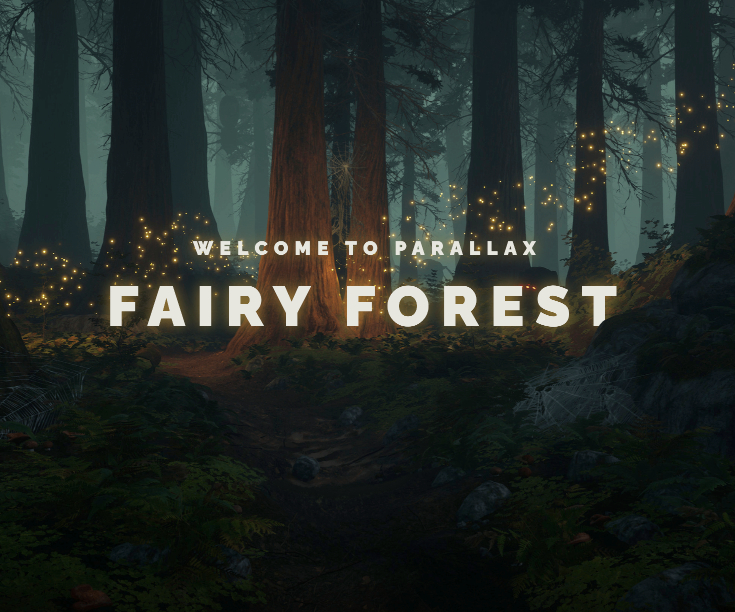
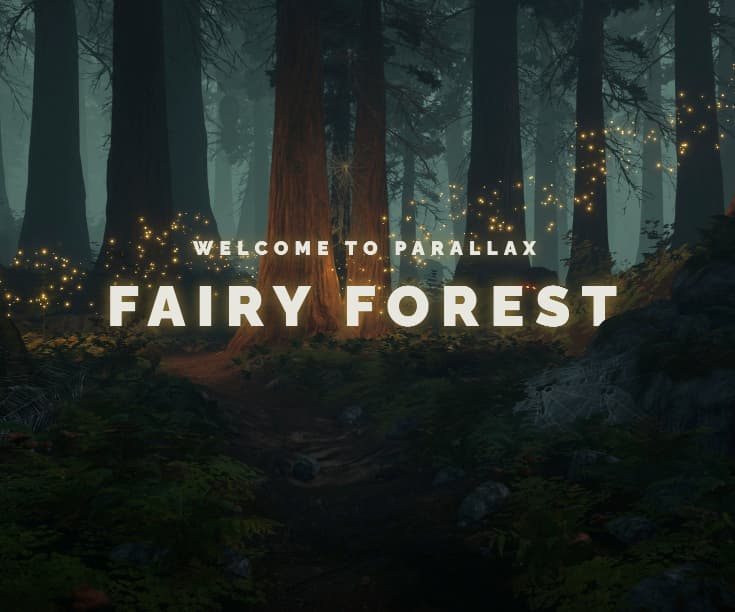
add compressed img

Changed region(s): [[0.7483, 0.4657, 0.7782, 0.4967], [0.3891, 0.4657, 0.419, 0.4967]]

diff --git a/css/main.min.css b/css/main.min.css
@@ -1,1 +1,1 @@
-html{-webkit-box-sizing:border-box;box-sizing:border-box;scroll-behavior:smooth}*,*::before,*::after{-webkit-box-sizing:inherit;box-sizing:inherit}h1,h2,h3,p{margin-top:0;margin-bottom:0}img{display:block;max-width:100%;height:auto}ul{padding:0;margin:0;list-style:none}a{text-decoration:none;color:inherit}body{font-family:"Roboto",sans-serif;font-weight:300;font-size:18px;line-height:1.25;color:#000;background-color:#fff}.container{max-width:475px;margin:0 auto;padding:0 10px}@media screen and (min-width: 768px){.container{max-width:945px;padding:0 30px}}.container--reletive{position:relative}@media screen and (min-width: 768px){.container--about{width:475px}}@media screen and (min-width: 768px){.container--contacts{width:400px}}.section{padding-top:80px;padding-bottom:80px;text-align:center}@media screen and (min-width: 768px){.section{padding-top:100px;padding-bottom:100px}}.section:nth-child(2n){background:#f6f6f6}.section__title{font-weight:700;font-size:34px;line-height:1.25;margin-bottom:50px}@media screen and (min-width: 768px){.section__title:nth-child(2n){margin-bottom:30px}}.current{color:#090909}#scrollToTopBtn{display:none;position:fixed;bottom:40px;right:5px;z-index:10;background-color:rgba(0,0,0,0);border:none;cursor:pointer}@media screen and (min-width: 768px){#scrollToTopBtn{right:30px}}@media screen and (min-width: 768px){.header{-webkit-box-shadow:rgba(100,100,111,.2) 0px 7px 29px 0px;box-shadow:rgba(100,100,111,.2) 0px 7px 29px 0px}}.hero{padding:10px 0}@media screen and (min-width: 768px){.hero{padding:60px 0}}.hero__box{display:inline-block;margin-bottom:40px}@media screen and (min-width: 768px){.hero__box{display:-webkit-box;display:-ms-flexbox;display:flex;-webkit-box-pack:justify;-ms-flex-pack:justify;justify-content:space-between;-webkit-box-align:end;-ms-flex-align:end;align-items:flex-end}}.hero__title{position:relative;font-weight:700;font-size:47px;line-height:58px;margin-bottom:25px;z-index:9}@media screen and (min-width: 768px){.hero__title{margin-bottom:0}}.hero__text{color:#090909}.lang{position:relative;display:-webkit-box;display:-ms-flexbox;display:flex;margin-top:30px;font-weight:700;font-size:16px;line-height:1.25;color:#828282;z-index:9}@media screen and (min-width: 768px){.lang{display:-webkit-box;display:-ms-flexbox;display:flex;-webkit-transform:rotate(-90deg) translate(25%, 150%);transform:rotate(-90deg) translate(25%, 150%)}}.lang__item:not(:last-child){border-right:2px solid #090909}.lang__link{padding:0 5px}@media screen and (max-width: 767px){.menu{position:absolute;top:0;right:0;width:100%;min-height:100%;padding:90px 29px;text-align:right;background-color:rgba(255,255,255,.8);visibility:hidden;opacity:0;-webkit-transition:opacity 500ms cubic-bezier(0.4, 0, 0.2, 1),visibility 500ms;transition:opacity 500ms cubic-bezier(0.4, 0, 0.2, 1),visibility 500ms;z-index:9}}.menu.is-open{visibility:visible;opacity:1}@media screen and (max-width: 767px){.menu__box{display:-webkit-inline-box;display:-ms-inline-flexbox;display:inline-flex;-webkit-box-orient:vertical;-webkit-box-direction:normal;-ms-flex-direction:column;flex-direction:column}}@media screen and (min-width: 768px){.menu__box{display:-webkit-box;display:-ms-flexbox;display:flex;-webkit-box-pack:justify;-ms-flex-pack:justify;justify-content:space-between;-webkit-box-align:center;-ms-flex-align:center;align-items:center}}.menu__item{display:inline-block;font-weight:700;font-size:28px;line-height:1.2;color:#828282;-webkit-transform:scale(1);transform:scale(1);-webkit-transition:color 300ms cubic-bezier(0.4, 0, 0.2, 1),-webkit-transform 300ms cubic-bezier(0.4, 0, 0.2, 1);transition:color 300ms cubic-bezier(0.4, 0, 0.2, 1),-webkit-transform 300ms cubic-bezier(0.4, 0, 0.2, 1);transition:color 300ms cubic-bezier(0.4, 0, 0.2, 1),transform 300ms cubic-bezier(0.4, 0, 0.2, 1);transition:color 300ms cubic-bezier(0.4, 0, 0.2, 1),transform 300ms cubic-bezier(0.4, 0, 0.2, 1),-webkit-transform 300ms cubic-bezier(0.4, 0, 0.2, 1)}.menu__item:hover,.menu__item:focus{color:#2c2c2c;-webkit-transform:scale(0.9);transform:scale(0.9)}@media screen and (min-width: 768px){.menu__item{padding:30px 0;font-size:18px;line-height:1.2}}.menu__item:first-child{color:#090909}@media screen and (max-width: 767px){.menu__item:not(:last-child){margin-bottom:35px}}.menu__button{display:-webkit-box;display:-ms-flexbox;display:flex;position:absolute;top:15px;right:20px;-webkit-box-pack:center;-ms-flex-pack:center;justify-content:center;-webkit-box-align:center;-ms-flex-align:center;align-items:center;margin:0;padding:0;width:32px;height:32px;border:none;background-color:rgba(0,0,0,0);cursor:pointer;z-index:10}@media screen and (min-width: 768px){.menu__button{display:none}}.menu__button:hover{fill:var(--hover-text-color)}.menu__button .icon__close{display:none}.menu__button.is-open .icon__close{display:block}.menu__button.is-open .icon__menu{display:none}.about__text:not(:last-child){margin-bottom:50px}.skills__text{margin-bottom:70px}@media screen and (min-width: 768px){.programs{display:-webkit-box;display:-ms-flexbox;display:flex;-webkit-box-pack:justify;-ms-flex-pack:justify;justify-content:space-between}}.programs__item:not(:last-child){margin-bottom:80px}@media screen and (min-width: 768px){.programs__item:not(:last-child){margin-bottom:0px}}.programs__icon{margin-bottom:25px}.programs__name{font-weight:700;font-size:14px;line-height:1.2;color:#828282;margin-bottom:40px}.progams__star-grey{fill:#e5e5e5}.progams__star:not(:last-child){margin-right:10px}.portfolio__item{position:relative;overflow:hidden;color:#fff}.portfolio__picture{display:block}.project__picture img{margin-left:auto;margin-right:auto}.project__overlay{position:absolute;left:0;top:0;width:100%;height:100%;background-color:rgba(0,0,0,.6);-webkit-transform:translateY(-101%);transform:translateY(-101%);-webkit-transition:-webkit-transform 300ms cubic-bezier(0.4, 0, 0.2, 1);transition:-webkit-transform 300ms cubic-bezier(0.4, 0, 0.2, 1);transition:transform 300ms cubic-bezier(0.4, 0, 0.2, 1);transition:transform 300ms cubic-bezier(0.4, 0, 0.2, 1), -webkit-transform 300ms cubic-bezier(0.4, 0, 0.2, 1)}.portfolio__item.project:hover .project__overlay,.portfolio__item.project:focus .project__overlay{-webkit-transform:translateY(0);transform:translateY(0)}.project__info{position:absolute;left:50%;top:50%;width:100%;-webkit-transform:translate(-50%, -50%);transform:translate(-50%, -50%)}.project__title{font-size:32px;margin-bottom:15px}.project__text{font-size:18px;margin-bottom:40px}.project__view,.project__link{display:-webkit-box;display:-ms-flexbox;display:flex;-webkit-box-pack:center;-ms-flex-pack:center;justify-content:center;-webkit-box-align:center;-ms-flex-align:center;align-items:center;margin-left:auto;margin-right:auto;width:250px;border-radius:50px;outline:none}.project__view{height:42px;background-color:#fff;font-weight:700;color:#000;-webkit-box-shadow:none;box-shadow:none;margin-bottom:15px;cursor:pointer;-webkit-transition:-webkit-box-shadow 300ms cubic-bezier(0.4, 0, 0.2, 1);transition:-webkit-box-shadow 300ms cubic-bezier(0.4, 0, 0.2, 1);transition:box-shadow 300ms cubic-bezier(0.4, 0, 0.2, 1);transition:box-shadow 300ms cubic-bezier(0.4, 0, 0.2, 1), -webkit-box-shadow 300ms cubic-bezier(0.4, 0, 0.2, 1)}.project__view:hover,.project__view:focus{-webkit-box-shadow:inset 0px 0px 4px 2px rgba(0,0,0,.25);box-shadow:inset 0px 0px 4px 2px rgba(0,0,0,.25)}.project__link{margin-bottom:5px;-webkit-transform:scale(1);transform:scale(1);-webkit-transition:color 300ms cubic-bezier(0.4, 0, 0.2, 1),-webkit-transform 300ms cubic-bezier(0.4, 0, 0.2, 1);transition:color 300ms cubic-bezier(0.4, 0, 0.2, 1),-webkit-transform 300ms cubic-bezier(0.4, 0, 0.2, 1);transition:color 300ms cubic-bezier(0.4, 0, 0.2, 1),transform 300ms cubic-bezier(0.4, 0, 0.2, 1);transition:color 300ms cubic-bezier(0.4, 0, 0.2, 1),transform 300ms cubic-bezier(0.4, 0, 0.2, 1),-webkit-transform 300ms cubic-bezier(0.4, 0, 0.2, 1)}.project__link:hover,.project__link:focus{-webkit-transform:scale(1.2);transform:scale(1.2)}@media screen and (min-width: 768px){.project__title{font-size:40px;margin-bottom:15px}.project__text{font-size:24px;margin-bottom:50px}.project__view{margin-bottom:15px}.project__link{margin-bottom:10px}}.swiper{width:100%;height:100%}.swiper-wrapper{padding-bottom:50px}.slider-arrow-prev,.slider-arrow-next{display:none;position:absolute;top:45%;width:31px;height:31px;border:.5px solid #000;border-radius:50%;cursor:pointer;z-index:5}@media screen and (min-width: 768px){.slider-arrow-prev,.slider-arrow-next{display:block}}.slider-arrow-prev{-webkit-transform:rotate(180deg);transform:rotate(180deg);left:1rem}.slider-arrow-next{right:1rem}.container--contacts{position:relative;padding-bottom:30px}.contacts__text{margin-bottom:40px;color:#090909}.button{min-width:100%;height:42px;background-color:#090909;font-weight:700;color:#fff;border-radius:50px;margin-bottom:50px;cursor:pointer;-webkit-transition:-webkit-box-shadow 300ms cubic-bezier(0.4, 0, 0.2, 1);transition:-webkit-box-shadow 300ms cubic-bezier(0.4, 0, 0.2, 1);transition:box-shadow 300ms cubic-bezier(0.4, 0, 0.2, 1);transition:box-shadow 300ms cubic-bezier(0.4, 0, 0.2, 1), -webkit-box-shadow 300ms cubic-bezier(0.4, 0, 0.2, 1)}.button:hover,.button:focus{-webkit-box-shadow:0px 5px 2px rgba(0,0,0,.1),0px 2px 4px rgba(0,0,0,.08),0px 4px 4px rgba(0,0,0,.12);box-shadow:0px 5px 2px rgba(0,0,0,.1),0px 2px 4px rgba(0,0,0,.08),0px 4px 4px rgba(0,0,0,.12)}@media screen and (min-width: 768px){.button{min-width:250px;padding:10px 30px}}.social{display:-webkit-box;display:-ms-flexbox;display:flex;-ms-flex-pack:distribute;justify-content:space-around;margin-bottom:50px}.social__link{display:-webkit-box;display:-ms-flexbox;display:flex;-webkit-box-pack:center;-ms-flex-pack:center;justify-content:center;-webkit-box-align:center;-ms-flex-align:center;align-items:center;fill:#090909;-webkit-transform:scale(1) rotate(0deg);transform:scale(1) rotate(0deg);-webkit-transition:-webkit-transform 300ms cubic-bezier(0.4, 0, 0.2, 1);transition:-webkit-transform 300ms cubic-bezier(0.4, 0, 0.2, 1);transition:transform 300ms cubic-bezier(0.4, 0, 0.2, 1);transition:transform 300ms cubic-bezier(0.4, 0, 0.2, 1), -webkit-transform 300ms cubic-bezier(0.4, 0, 0.2, 1)}.social__link:hover,.social__link:focus{-webkit-transform:scale(1.1) rotate(360deg);transform:scale(1.1) rotate(360deg)}.signature{color:#828282}.copy{position:absolute;font-size:16px;left:50%;bottom:0;-webkit-transform:translate3d(-50%, 0, 0);transform:translate3d(-50%, 0, 0)}/*# sourceMappingURL=main.min.css.map */
+html{-webkit-box-sizing:border-box;box-sizing:border-box;scroll-behavior:smooth}*,*::before,*::after{-webkit-box-sizing:inherit;box-sizing:inherit}h1,h2,h3,p{margin-top:0;margin-bottom:0}img{display:block;max-width:100%;height:auto}ul{padding:0;margin:0;list-style:none}a{text-decoration:none;color:inherit}body{font-family:"Roboto",sans-serif;font-weight:300;font-size:18px;line-height:1.25;color:#000;background-color:#fff}.container{max-width:475px;margin:0 auto;padding:0 10px}@media screen and (min-width: 768px){.container{max-width:945px;padding:0 30px}}.container--reletive{position:relative}@media screen and (min-width: 768px){.container--contacts{width:400px}}.section{padding-top:80px;padding-bottom:80px;text-align:center}@media screen and (min-width: 768px){.section{padding-top:100px;padding-bottom:100px}.section.section--about{padding-top:50px;padding-bottom:50px}}.section:nth-child(2n){background:#f6f6f6}.section__title{font-weight:700;font-size:34px;line-height:1.25;margin-bottom:50px}@media screen and (min-width: 768px){.section__title:nth-child(2n){margin-bottom:30px}}.current{color:#090909}#scrollToTopBtn{display:none;position:fixed;bottom:40px;right:5px;z-index:10;background-color:rgba(0,0,0,0);border:none;cursor:pointer}@media screen and (min-width: 768px){#scrollToTopBtn{right:30px}}@media screen and (min-width: 768px){.header{-webkit-box-shadow:rgba(100,100,111,.2) 0px 7px 29px 0px;box-shadow:rgba(100,100,111,.2) 0px 7px 29px 0px}}.hero{padding:10px 0}@media screen and (min-width: 768px){.hero{padding:60px 0}}.hero__box{display:inline-block;margin-bottom:40px}@media screen and (min-width: 768px){.hero__box{display:-webkit-box;display:-ms-flexbox;display:flex;-webkit-box-pack:justify;-ms-flex-pack:justify;justify-content:space-between;-webkit-box-align:end;-ms-flex-align:end;align-items:flex-end}}.hero__title{position:relative;font-weight:700;font-size:47px;line-height:58px;margin-bottom:25px;z-index:9}@media screen and (min-width: 768px){.hero__title{margin-bottom:0}}.hero__text{color:#090909}.lang{position:relative;display:-webkit-box;display:-ms-flexbox;display:flex;margin-top:30px;font-weight:700;font-size:16px;line-height:1.25;color:#828282;z-index:9}@media screen and (min-width: 768px){.lang{display:-webkit-box;display:-ms-flexbox;display:flex;-webkit-transform:rotate(-90deg) translate(25%, 150%);transform:rotate(-90deg) translate(25%, 150%)}}.lang__item:not(:last-child){border-right:2px solid #090909}.lang__link{padding:0 5px}@media screen and (max-width: 767px){.menu{position:absolute;top:0;right:0;width:100%;min-height:100%;padding:90px 29px;text-align:right;background-color:rgba(255,255,255,.8);visibility:hidden;opacity:0;-webkit-transition:opacity 500ms cubic-bezier(0.4, 0, 0.2, 1),visibility 500ms;transition:opacity 500ms cubic-bezier(0.4, 0, 0.2, 1),visibility 500ms;z-index:9}}.menu.is-open{visibility:visible;opacity:1}@media screen and (max-width: 767px){.menu__box{display:-webkit-inline-box;display:-ms-inline-flexbox;display:inline-flex;-webkit-box-orient:vertical;-webkit-box-direction:normal;-ms-flex-direction:column;flex-direction:column}}@media screen and (min-width: 768px){.menu__box{display:-webkit-box;display:-ms-flexbox;display:flex;-webkit-box-pack:justify;-ms-flex-pack:justify;justify-content:space-between;-webkit-box-align:center;-ms-flex-align:center;align-items:center}}.menu__item{display:inline-block;font-weight:700;font-size:28px;line-height:1.2;color:#828282;-webkit-transform:scale(1);transform:scale(1);-webkit-transition:color 300ms cubic-bezier(0.4, 0, 0.2, 1),-webkit-transform 300ms cubic-bezier(0.4, 0, 0.2, 1);transition:color 300ms cubic-bezier(0.4, 0, 0.2, 1),-webkit-transform 300ms cubic-bezier(0.4, 0, 0.2, 1);transition:color 300ms cubic-bezier(0.4, 0, 0.2, 1),transform 300ms cubic-bezier(0.4, 0, 0.2, 1);transition:color 300ms cubic-bezier(0.4, 0, 0.2, 1),transform 300ms cubic-bezier(0.4, 0, 0.2, 1),-webkit-transform 300ms cubic-bezier(0.4, 0, 0.2, 1)}.menu__item:hover,.menu__item:focus{color:#2c2c2c;-webkit-transform:scale(0.9);transform:scale(0.9)}@media screen and (min-width: 768px){.menu__item{padding:30px 0;font-size:18px;line-height:1.2}}.menu__item:first-child{color:#090909}@media screen and (max-width: 767px){.menu__item:not(:last-child){margin-bottom:35px}}.menu__button{display:-webkit-box;display:-ms-flexbox;display:flex;position:absolute;top:15px;right:20px;-webkit-box-pack:center;-ms-flex-pack:center;justify-content:center;-webkit-box-align:center;-ms-flex-align:center;align-items:center;margin:0;padding:0;width:32px;height:32px;border:none;background-color:rgba(0,0,0,0);cursor:pointer;z-index:10}@media screen and (min-width: 768px){.menu__button{display:none}}.menu__button:hover{fill:var(--hover-text-color)}.menu__button .icon__close{display:none}.menu__button.is-open .icon__close{display:block}.menu__button.is-open .icon__menu{display:none}.about__content{display:-webkit-box;display:-ms-flexbox;display:flex;-webkit-box-orient:vertical;-webkit-box-direction:normal;-ms-flex-direction:column;flex-direction:column;-webkit-box-pack:center;-ms-flex-pack:center;justify-content:center;-webkit-box-align:center;-ms-flex-align:center;align-items:center;gap:50px}@media screen and (min-width: 768px){.about__content{-webkit-box-orient:horizontal;-webkit-box-direction:normal;-ms-flex-direction:row;flex-direction:row}}.about__text{display:-webkit-box;display:-ms-flexbox;display:flex;-webkit-box-orient:vertical;-webkit-box-direction:normal;-ms-flex-direction:column;flex-direction:column;-webkit-box-pack:center;-ms-flex-pack:center;justify-content:center;-webkit-box-align:center;-ms-flex-align:center;align-items:center;gap:50px;max-width:415px}.skills__text{margin-bottom:70px}@media screen and (min-width: 768px){.programs{display:-webkit-box;display:-ms-flexbox;display:flex;-webkit-box-pack:justify;-ms-flex-pack:justify;justify-content:space-between}}.programs__item:not(:last-child){margin-bottom:80px}@media screen and (min-width: 768px){.programs__item:not(:last-child){margin-bottom:0px}}.programs__icon{margin-bottom:25px}.programs__name{font-weight:700;font-size:14px;line-height:1.2;color:#828282;margin-bottom:40px}.progams__star-grey{fill:#e5e5e5}.progams__star:not(:last-child){margin-right:10px}.portfolio__item{position:relative;overflow:hidden;color:#fff}.portfolio__picture{display:block}.project__picture img{margin-left:auto;margin-right:auto}.project__overlay{position:absolute;left:0;top:0;width:100%;height:100%;background-color:rgba(0,0,0,.6);-webkit-transform:translateY(-101%);transform:translateY(-101%);-webkit-transition:-webkit-transform 300ms cubic-bezier(0.4, 0, 0.2, 1);transition:-webkit-transform 300ms cubic-bezier(0.4, 0, 0.2, 1);transition:transform 300ms cubic-bezier(0.4, 0, 0.2, 1);transition:transform 300ms cubic-bezier(0.4, 0, 0.2, 1), -webkit-transform 300ms cubic-bezier(0.4, 0, 0.2, 1)}.portfolio__item.project:hover .project__overlay,.portfolio__item.project:focus .project__overlay{-webkit-transform:translateY(0);transform:translateY(0)}.project__info{position:absolute;left:50%;top:50%;width:100%;-webkit-transform:translate(-50%, -50%);transform:translate(-50%, -50%)}.project__title{font-size:32px;margin-bottom:15px}.project__text{font-size:18px;margin-bottom:40px}.project__view,.project__link{display:-webkit-box;display:-ms-flexbox;display:flex;-webkit-box-pack:center;-ms-flex-pack:center;justify-content:center;-webkit-box-align:center;-ms-flex-align:center;align-items:center;margin-left:auto;margin-right:auto;width:250px;border-radius:50px;outline:none}.project__view{height:42px;background-color:#fff;font-weight:700;color:#000;-webkit-box-shadow:none;box-shadow:none;margin-bottom:15px;cursor:pointer;-webkit-transition:-webkit-box-shadow 300ms cubic-bezier(0.4, 0, 0.2, 1);transition:-webkit-box-shadow 300ms cubic-bezier(0.4, 0, 0.2, 1);transition:box-shadow 300ms cubic-bezier(0.4, 0, 0.2, 1);transition:box-shadow 300ms cubic-bezier(0.4, 0, 0.2, 1), -webkit-box-shadow 300ms cubic-bezier(0.4, 0, 0.2, 1)}.project__view:hover,.project__view:focus{-webkit-box-shadow:inset 0px 0px 4px 2px rgba(0,0,0,.25);box-shadow:inset 0px 0px 4px 2px rgba(0,0,0,.25)}.project__link{margin-bottom:5px;-webkit-transform:scale(1);transform:scale(1);-webkit-transition:color 300ms cubic-bezier(0.4, 0, 0.2, 1),-webkit-transform 300ms cubic-bezier(0.4, 0, 0.2, 1);transition:color 300ms cubic-bezier(0.4, 0, 0.2, 1),-webkit-transform 300ms cubic-bezier(0.4, 0, 0.2, 1);transition:color 300ms cubic-bezier(0.4, 0, 0.2, 1),transform 300ms cubic-bezier(0.4, 0, 0.2, 1);transition:color 300ms cubic-bezier(0.4, 0, 0.2, 1),transform 300ms cubic-bezier(0.4, 0, 0.2, 1),-webkit-transform 300ms cubic-bezier(0.4, 0, 0.2, 1)}.project__link:hover,.project__link:focus{-webkit-transform:scale(1.2);transform:scale(1.2)}@media screen and (min-width: 768px){.project__title{font-size:40px;margin-bottom:15px}.project__text{font-size:24px;margin-bottom:50px}.project__view{margin-bottom:15px}.project__link{margin-bottom:10px}}.swiper{width:100%;height:100%}.swiper-wrapper{padding-bottom:50px}.slider-arrow-prev,.slider-arrow-next{display:none;position:absolute;top:45%;width:31px;height:31px;border:.5px solid #000;border-radius:50%;cursor:pointer;z-index:5}@media screen and (min-width: 768px){.slider-arrow-prev,.slider-arrow-next{display:block}}.slider-arrow-prev{-webkit-transform:rotate(180deg);transform:rotate(180deg);left:1rem}.slider-arrow-next{right:1rem}.container--contacts{position:relative;padding-bottom:30px}.contacts__text{margin-bottom:40px;color:#090909}.button{min-width:100%;height:42px;background-color:#090909;font-weight:700;color:#fff;border-radius:50px;margin-bottom:50px;cursor:pointer;-webkit-transition:-webkit-box-shadow 300ms cubic-bezier(0.4, 0, 0.2, 1);transition:-webkit-box-shadow 300ms cubic-bezier(0.4, 0, 0.2, 1);transition:box-shadow 300ms cubic-bezier(0.4, 0, 0.2, 1);transition:box-shadow 300ms cubic-bezier(0.4, 0, 0.2, 1), -webkit-box-shadow 300ms cubic-bezier(0.4, 0, 0.2, 1)}.button:hover,.button:focus{-webkit-box-shadow:0px 5px 2px rgba(0,0,0,.1),0px 2px 4px rgba(0,0,0,.08),0px 4px 4px rgba(0,0,0,.12);box-shadow:0px 5px 2px rgba(0,0,0,.1),0px 2px 4px rgba(0,0,0,.08),0px 4px 4px rgba(0,0,0,.12)}@media screen and (min-width: 768px){.button{min-width:250px;padding:10px 30px}}.social{display:-webkit-box;display:-ms-flexbox;display:flex;-ms-flex-pack:distribute;justify-content:space-around;margin-bottom:50px}.social__link{display:-webkit-box;display:-ms-flexbox;display:flex;-webkit-box-pack:center;-ms-flex-pack:center;justify-content:center;-webkit-box-align:center;-ms-flex-align:center;align-items:center;fill:#090909;-webkit-transform:scale(1) rotate(0deg);transform:scale(1) rotate(0deg);-webkit-transition:-webkit-transform 300ms cubic-bezier(0.4, 0, 0.2, 1);transition:-webkit-transform 300ms cubic-bezier(0.4, 0, 0.2, 1);transition:transform 300ms cubic-bezier(0.4, 0, 0.2, 1);transition:transform 300ms cubic-bezier(0.4, 0, 0.2, 1), -webkit-transform 300ms cubic-bezier(0.4, 0, 0.2, 1)}.social__link:hover,.social__link:focus{-webkit-transform:scale(1.1) rotate(360deg);transform:scale(1.1) rotate(360deg)}.signature{color:#828282}.copy{position:absolute;font-size:16px;left:50%;bottom:0;-webkit-transform:translate3d(-50%, 0, 0);transform:translate3d(-50%, 0, 0)}/*# sourceMappingURL=main.min.css.map */

diff --git a/ua.html b/ua.html
@@ -77,13 +77,13 @@
           <picture title="Роман Пирин">
             <source
               media="(min-width: 768px)"
-              srcset="./img/1d.jpg 1x, ./img/1d@2x.jpg 2x"
+              srcset="./img/1d.jpeg 1x, ./img/1d@2x.jpeg 2x"
             />
             <source
               media="(min-width: 320px)"
-              srcset="./img/1m.jpg 1x, ./img/1m@2x.jpg 2x"
+              srcset="./img/1m.jpeg 1x, ./img/1m@2x.jpeg 2x"
             />
-            <img src="./img/1d.jpg" alt="Роман Пирин" />
+            <img src="./img/1d.jpeg" alt="Роман Пирин" />
           </picture>
 
           <button
@@ -100,22 +100,27 @@
         </div>
       </section>
       <!--About me-->
-      <section class="section" id="to-about">
-        <div class="container container--about">
-          <h2 class="section__title">Про мене</h2>
+      <section class="section section--about" id="to-about">
+        <div class="container">
+          <div class="about__content">
+            <div class="about__info">
+              <h2 class="section__title">Про мене</h2>
+              <div class="about__text">
+                <p>
+                  Привіт, мене звати Роман - я Junior Frontend Developer з міста
+                  Вінниці. Цікавлюсь фронтендом та програмуванням в цілому.
+                </p>
 
-          <p class="about__text">
-            Привіт, мене звати Роман - я Junior Frontend Developer з міста
-            Вінниці. Цікавлюсь фронтендом та програмуванням в цілому.
-          </p>
+                <p>Завершив курс "Full Stack" в GoIT.</p>
 
-          <p class="about__text">
-            Я навчаюсь на курсах "Fullstack" в компанії GoIT.
-          </p>
-
-          <p class="about__text">
-            Готовий реалізовувати чудові проекти з чудовими людьми.
-          </p>
+                <p>Готовий реалізовувати чудові проекти з чудовими людьми.</p>
+              </div>
+            </div>
+            <picture class="about__picture">
+              <source srcset="./img/8d.jpeg 1x, ./img/8d@2x.jpeg 2x" />
+              <img src="./img/8d.jpeg" alt="Certificate" />
+            </picture>
+          </div>
         </div>
       </section>
       <!--Skills-->
@@ -311,13 +316,13 @@
                 <picture class="project__picture">
                   <source
                     media="(min-width: 768px)"
-                    srcset="./img/4d.jpg 1x, ./img/4d@2x.jpg 2x"
+                    srcset="./img/4d.jpeg 1x, ./img/4d@2x.jpeg 2x"
                   />
                   <source
                     media="(min-width: 320px)"
-                    srcset="./img/4m.jpg 1x, ./img/4m@2x.jpg 2x"
+                    srcset="./img/4m.jpeg 1x, ./img/4m@2x.jpeg 2x"
                   />
-                  <img src="./img/4d.jpg" alt="Filmoteka" />
+                  <img src="./img/4d.jpeg" alt="Filmoteka" />
                 </picture>
                 <div class="project__overlay">
                   <div class="project__info">
@@ -378,13 +383,13 @@
                 <picture class="portfolio__picture">
                   <source
                     media="(min-width: 768px)"
-                    srcset="./img/2d.jpg 1x, ./img/2d@2x.jpg 2x"
+                    srcset="./img/2d.jpeg 1x, ./img/2d@2x.jpeg 2x"
                   />
                   <source
                     media="(min-width: 320px)"
-                    srcset="./img/2m.jpg 1x, ./img/2m@2x.jpg 2x"
+                    srcset="./img/2m.jpeg 1x, ./img/2m@2x.jpeg 2x"
                   />
-                  <img src="./img/2d.jpg" alt="Design studio" />
+                  <img src="./img/2d.jpeg" alt="Design studio" />
                 </picture>
                 <div class="project__overlay">
                   <div class="project__info">
@@ -410,13 +415,13 @@
                 <picture class="project__picture">
                   <source
                     media="(min-width: 768px)"
-                    srcset="./img/3d.jpg 1x, ./img/3d@2x.jpg 2x"
+                    srcset="./img/3d.jpeg 1x, ./img/3d@2x.jpeg 2x"
                   />
                   <source
                     media="(min-width: 320px)"
-                    srcset="./img/3m.jpg 1x, ./img/3m@2x.jpg 2x"
+                    srcset="./img/3m.jpeg 1x, ./img/3m@2x.jpeg 2x"
                   />
-                  <img src="./img/3d.jpg" alt="Ice cream" />
+                  <img src="./img/3d.jpeg" alt="Ice cream" />
                 </picture>
                 <div class="project__overlay">
                   <div class="project__info">
@@ -444,13 +449,13 @@
                 <picture class="project__picture">
                   <source
                     media="(min-width: 768px)"
-                    srcset="./img/5d.jpg 1x, ./img/5d@2x.jpg 2x"
+                    srcset="./img/5d.jpeg 1x, ./img/5d@2x.jpeg 2x"
                   />
                   <source
                     media="(min-width: 320px)"
-                    srcset="./img/5m.jpg 1x, ./img/5m@2x.jpg 2x"
+                    srcset="./img/5m.jpeg 1x, ./img/5m@2x.jpeg 2x"
                   />
-                  <img src="./img/5d.jpg" alt="Phonebook" />
+                  <img src="./img/5d.jpeg" alt="Phonebook" />
                 </picture>
                 <div class="project__overlay">
                   <div class="project__info">

diff --git a/index.html b/index.html
@@ -77,13 +77,13 @@
           <picture title="Roman Pyryn">
             <source
               media="(min-width: 768px)"
-              srcset="./img/1d.jpg 1x, ./img/1d@2x.jpg 2x"
+              srcset="./img/1d.jpeg 1x, ./img/1d@2x.jpeg 2x"
             />
             <source
               media="(min-width: 320px)"
-              srcset="./img/1m.jpg 1x, ./img/1m@2x.jpg 2x"
+              srcset="./img/1m.jpeg 1x, ./img/1m@2x.jpeg 2x"
             />
-            <img src="./img/1d.jpg" alt="Roman Pyryn" />
+            <img src="./img/1d.jpeg" alt="Roman Pyryn" />
           </picture>
 
           <button
@@ -100,22 +100,29 @@
         </div>
       </section>
       <!--About me-->
-      <section class="section" id="to-about">
-        <div class="container container--about">
-          <h2 class="section__title">About me</h2>
+      <section class="section section--about" id="to-about">
+        <div class="container">
+          <div class="about__content">
+            <div class="about__info">
+              <h2 class="section__title">About me</h2>
+              <div class="about__text">
+                <p>
+                  Hi, I'm Roman - Junior Frontend Developer from Vinnytsia. I'm
+                  interested in frontend and everything connected with it.
+                </p>
 
-          <p class="about__text">
-            Hi, I'm Roman - Junior Frontend Developer from Vinnytsia. I'm
-            interested in frontend and everything connected with it.
-          </p>
+                <p>Completed the "Full Stack" course at GoIT.</p>
 
-          <p class="about__text">
-            I'm studying at courses "Fullstack" in GoIT.
-          </p>
-
-          <p class="about__text">
-            Ready to implement excellent projects with wonderful people.
-          </p>
+                <p>
+                  Ready to implement excellent projects with wonderful people.
+                </p>
+              </div>
+            </div>
+            <picture class="about__picture">
+              <source srcset="./img/8d.jpeg 1x, ./img/8d@2x.jpeg 2x" />
+              <img src="./img/8d.jpeg" alt="Certificate" />
+            </picture>
+          </div>
         </div>
       </section>
       <!--Skills-->
@@ -311,13 +318,13 @@
                 <picture class="project__picture">
                   <source
                     media="(min-width: 768px)"
-                    srcset="./img/4d.jpg 1x, ./img/4d@2x.jpg 2x"
+                    srcset="./img/4d.jpeg 1x, ./img/4d@2x.jpeg 2x"
                   />
                   <source
                     media="(min-width: 320px)"
-                    srcset="./img/4m.jpg 1x, ./img/4m@2x.jpg 2x"
+                    srcset="./img/4m.jpeg 1x, ./img/4m@2x.jpeg 2x"
                   />
-                  <img src="./img/4d.jpg" alt="Filmoteka" />
+                  <img src="./img/4d.jpeg" alt="Filmoteka" />
                 </picture>
                 <div class="project__overlay">
                   <div class="project__info">
@@ -378,13 +385,13 @@
                 <picture class="portfolio__picture">
                   <source
                     media="(min-width: 768px)"
-                    srcset="./img/2d.jpg 1x, ./img/2d@2x.jpg 2x"
+                    srcset="./img/2d.jpeg 1x, ./img/2d@2x.jpeg 2x"
                   />
                   <source
                     media="(min-width: 320px)"
-                    srcset="./img/2m.jpg 1x, ./img/2m@2x.jpg 2x"
+                    srcset="./img/2m.jpeg 1x, ./img/2m@2x.jpeg 2x"
                   />
-                  <img src="./img/2d.jpg" alt="Design studio" />
+                  <img src="./img/2d.jpeg" alt="Design studio" />
                 </picture>
                 <div class="project__overlay">
                   <div class="project__info">
@@ -410,13 +417,13 @@
                 <picture class="project__picture">
                   <source
                     media="(min-width: 768px)"
-                    srcset="./img/3d.jpg 1x, ./img/3d@2x.jpg 2x"
+                    srcset="./img/3d.jpeg 1x, ./img/3d@2x.jpeg 2x"
                   />
                   <source
                     media="(min-width: 320px)"
-                    srcset="./img/3m.jpg 1x, ./img/3m@2x.jpg 2x"
+                    srcset="./img/3m.jpeg 1x, ./img/3m@2x.jpeg 2x"
                   />
-                  <img src="./img/3d.jpg" alt="Ice cream" />
+                  <img src="./img/3d.jpeg" alt="Ice cream" />
                 </picture>
                 <div class="project__overlay">
                   <div class="project__info">
@@ -444,13 +451,13 @@
                 <picture class="project__picture">
                   <source
                     media="(min-width: 768px)"
-                    srcset="./img/5d.jpg 1x, ./img/5d@2x.jpg 2x"
+                    srcset="./img/5d.jpeg 1x, ./img/5d@2x.jpeg 2x"
                   />
                   <source
                     media="(min-width: 320px)"
-                    srcset="./img/5m.jpg 1x, ./img/5m@2x.jpg 2x"
+                    srcset="./img/5m.jpeg 1x, ./img/5m@2x.jpeg 2x"
                   />
-                  <img src="./img/5d.jpg" alt="Phonebook" />
+                  <img src="./img/5d.jpeg" alt="Phonebook" />
                 </picture>
                 <div class="project__overlay">
                   <div class="project__info">

diff --git a/css/main.css b/css/main.css
@@ -62,12 +62,6 @@ body {
 }
 
 @media screen and (min-width: 768px) {
-  .container--about {
-    width: 475px;
-  }
-}
-
-@media screen and (min-width: 768px) {
   .container--contacts {
     width: 400px;
   }
@@ -82,6 +76,10 @@ body {
   .section {
     padding-top: 100px;
     padding-bottom: 100px;
+  }
+  .section.section--about {
+    padding-top: 50px;
+    padding-bottom: 50px;
   }
 }
 .section:nth-child(2n) {
@@ -325,8 +323,47 @@ body {
   display: none;
 }
 
-.about__text:not(:last-child) {
-  margin-bottom: 50px;
+.about__content {
+  display: -webkit-box;
+  display: -ms-flexbox;
+  display: flex;
+  -webkit-box-orient: vertical;
+  -webkit-box-direction: normal;
+      -ms-flex-direction: column;
+          flex-direction: column;
+  -webkit-box-pack: center;
+      -ms-flex-pack: center;
+          justify-content: center;
+  -webkit-box-align: center;
+      -ms-flex-align: center;
+          align-items: center;
+  gap: 50px;
+}
+@media screen and (min-width: 768px) {
+  .about__content {
+    -webkit-box-orient: horizontal;
+    -webkit-box-direction: normal;
+        -ms-flex-direction: row;
+            flex-direction: row;
+  }
+}
+
+.about__text {
+  display: -webkit-box;
+  display: -ms-flexbox;
+  display: flex;
+  -webkit-box-orient: vertical;
+  -webkit-box-direction: normal;
+      -ms-flex-direction: column;
+          flex-direction: column;
+  -webkit-box-pack: center;
+      -ms-flex-pack: center;
+          justify-content: center;
+  -webkit-box-align: center;
+      -ms-flex-align: center;
+          align-items: center;
+  gap: 50px;
+  max-width: 415px;
 }
 
 .skills__text {

diff --git a/sass/utils/_commons.scss b/sass/utils/_commons.scss
@@ -60,12 +60,6 @@ body {
   position: relative;
 }
 
-.container--about {
-  @media screen and (min-width: 768px) {
-    width: 475px;
-  }
-}
-
 .container--contacts {
   @media screen and (min-width: 768px) {
     width: 400px;
@@ -81,6 +75,10 @@ body {
   @media screen and (min-width: 768px) {
     padding-top: 100px;
     padding-bottom: 100px;
+    &.section--about {
+      padding-top: 50px;
+      padding-bottom: 50px;
+    }
   }
 
   &:nth-child(2n) {

diff --git a/sass/components/_about.scss b/sass/components/_about.scss
@@ -1,3 +1,19 @@
-.about__text:not(:last-child) {
-  margin-bottom: 50px;
+.about__content {
+	display: flex;
+	flex-direction: column;
+	justify-content: center;
+	align-items: center;
+	gap: 50px;
+	@media screen and (min-width: 768px) {
+		flex-direction: row;
+  }
+}
+
+.about__text {
+	display: flex;
+	flex-direction: column;
+	justify-content: center;
+	align-items: center;
+	gap: 50px;
+	max-width: 415px;
 }
